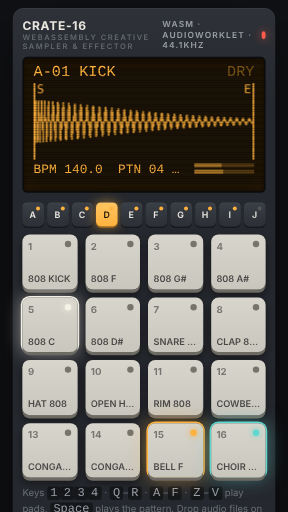
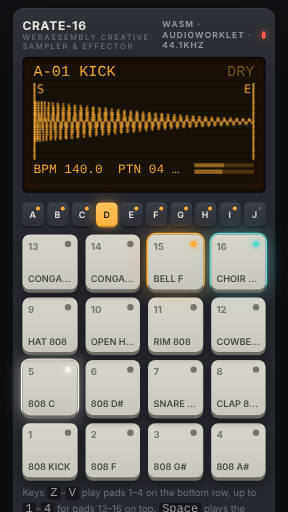
CRATE-16: MPC-style pad layout (pad 1 bottom-left)
Claude-Session: https://claude.ai/code/session_01SN4AmDZaP5Pv17HUvNth7g

diff --git a/crate16/index.html b/crate16/index.html
@@ -225,7 +225,7 @@ button{font:inherit;color:inherit}
   <section class="padsec" aria-label="Pads">
     <div class="banks" id="banks"></div>
     <div class="pads" id="pads"></div>
-    <p class="hint" style="margin:0">Keys <kbd>1</kbd><kbd>2</kbd><kbd>3</kbd><kbd>4</kbd> · <kbd>Q</kbd>–<kbd>R</kbd> · <kbd>A</kbd>–<kbd>F</kbd> · <kbd>Z</kbd>–<kbd>V</kbd> play pads, <kbd>Space</kbd> plays the pattern. Drop audio files on a pad to load them.</p>
+    <p class="hint" style="margin:0">Keys <kbd>Z</kbd>–<kbd>V</kbd> play pads 1–4 on the bottom row, up to <kbd>1</kbd>–<kbd>4</kbd> for pads 13–16 on top. <kbd>Space</kbd> plays the pattern. Drop audio files on a pad to load them.</p>
   </section>
 
   <!-- PAD EDIT -->
@@ -815,6 +815,7 @@ function buildPads(){
   for (let i = 0; i < 16; i++) {
     const b = el('button', 'pad'); b.innerHTML = '<span class="pn"></span><span class="led"></span><span class="pnm"></span>';
     b.dataset.slot = i;
+    b.style.gridRow = String(4 - Math.floor(i / 4)); b.style.gridColumn = String(i % 4 + 1); // pad 1 bottom-left, pad 16 top-right
     const on = e => { e.preventDefault(); padDown(S.bank * 16 + i, 1); b.classList.add('hit'); try { b.setPointerCapture(e.pointerId); } catch (_) {} };
     const off = () => { if (!b.classList.contains('hit')) return; b.classList.remove('hit'); padUp(S.bank * 16 + i); };
     b.addEventListener('pointerdown', on); b.addEventListener('pointerup', off); b.addEventListener('pointercancel', off); b.addEventListener('lostpointercapture', off);
@@ -1180,7 +1181,8 @@ async function exportWav(){
 }
 
 /* ═════════════ keyboard & MIDI ═════════════ */
-const KEYMAP = ['1', '2', '3', '4', 'q', 'w', 'e', 'r', 'a', 's', 'd', 'f', 'z', 'x', 'c', 'v'];
+// keyboard rows mirror the pad grid: Z–V = pads 1–4 (bottom row) … 1–4 = pads 13–16 (top row)
+const KEYMAP = ['z', 'x', 'c', 'v', 'a', 's', 'd', 'f', 'q', 'w', 'e', 'r', '1', '2', '3', '4'];
 const keyHeld = new Set();
 window.addEventListener('keydown', e => {
   if (e.target.closest && e.target.closest('input,textarea,[role=slider]')) return;
